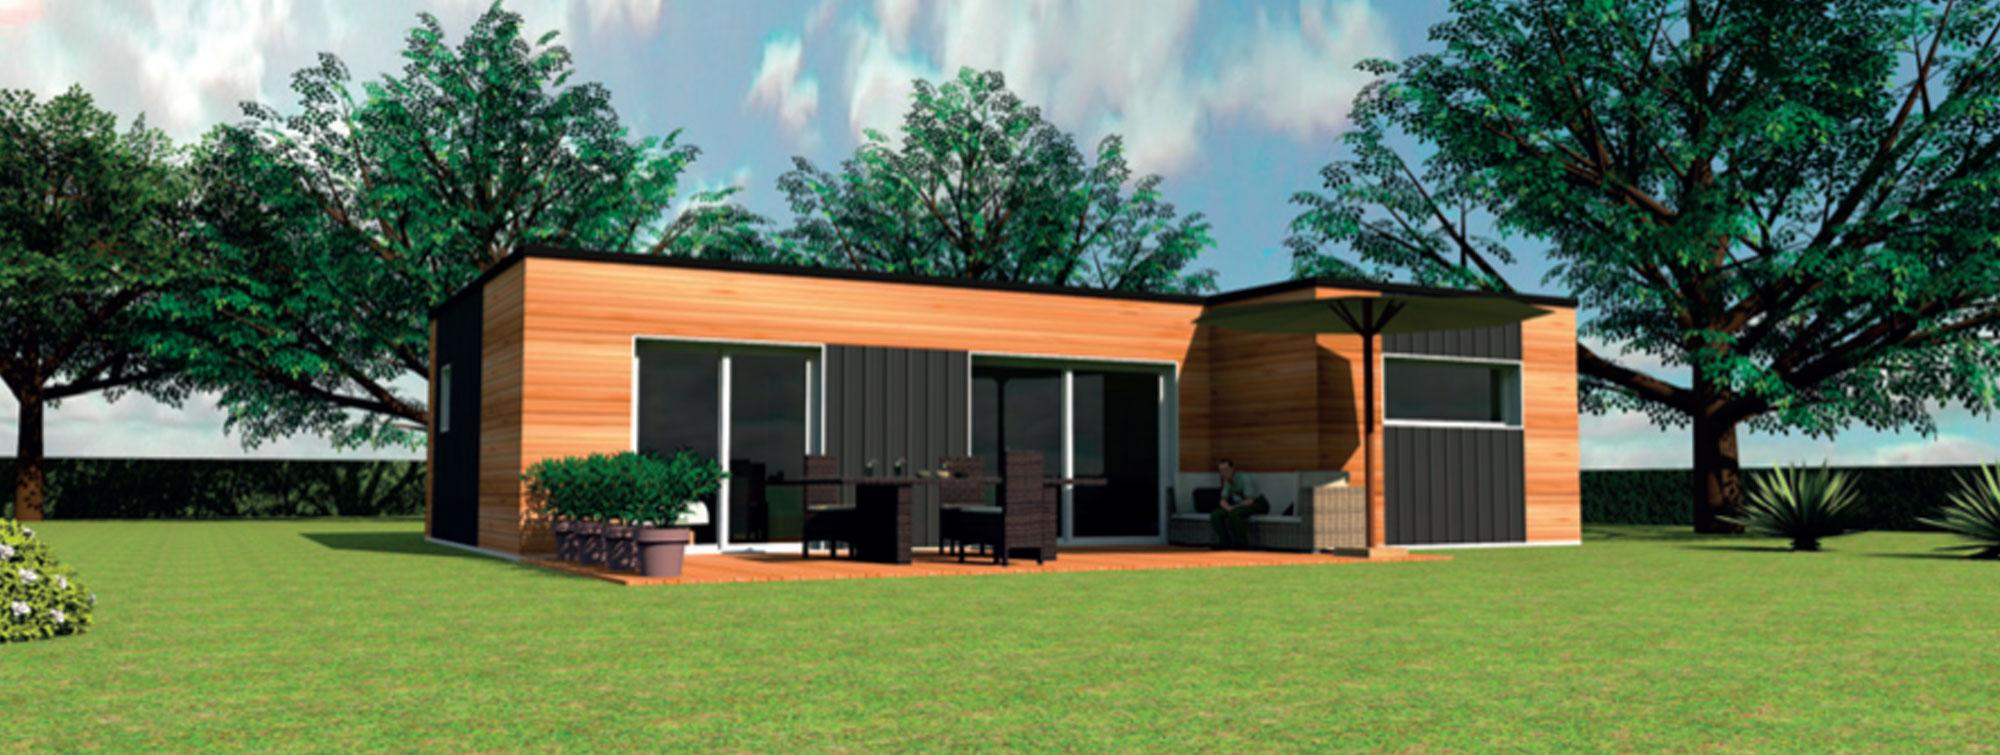
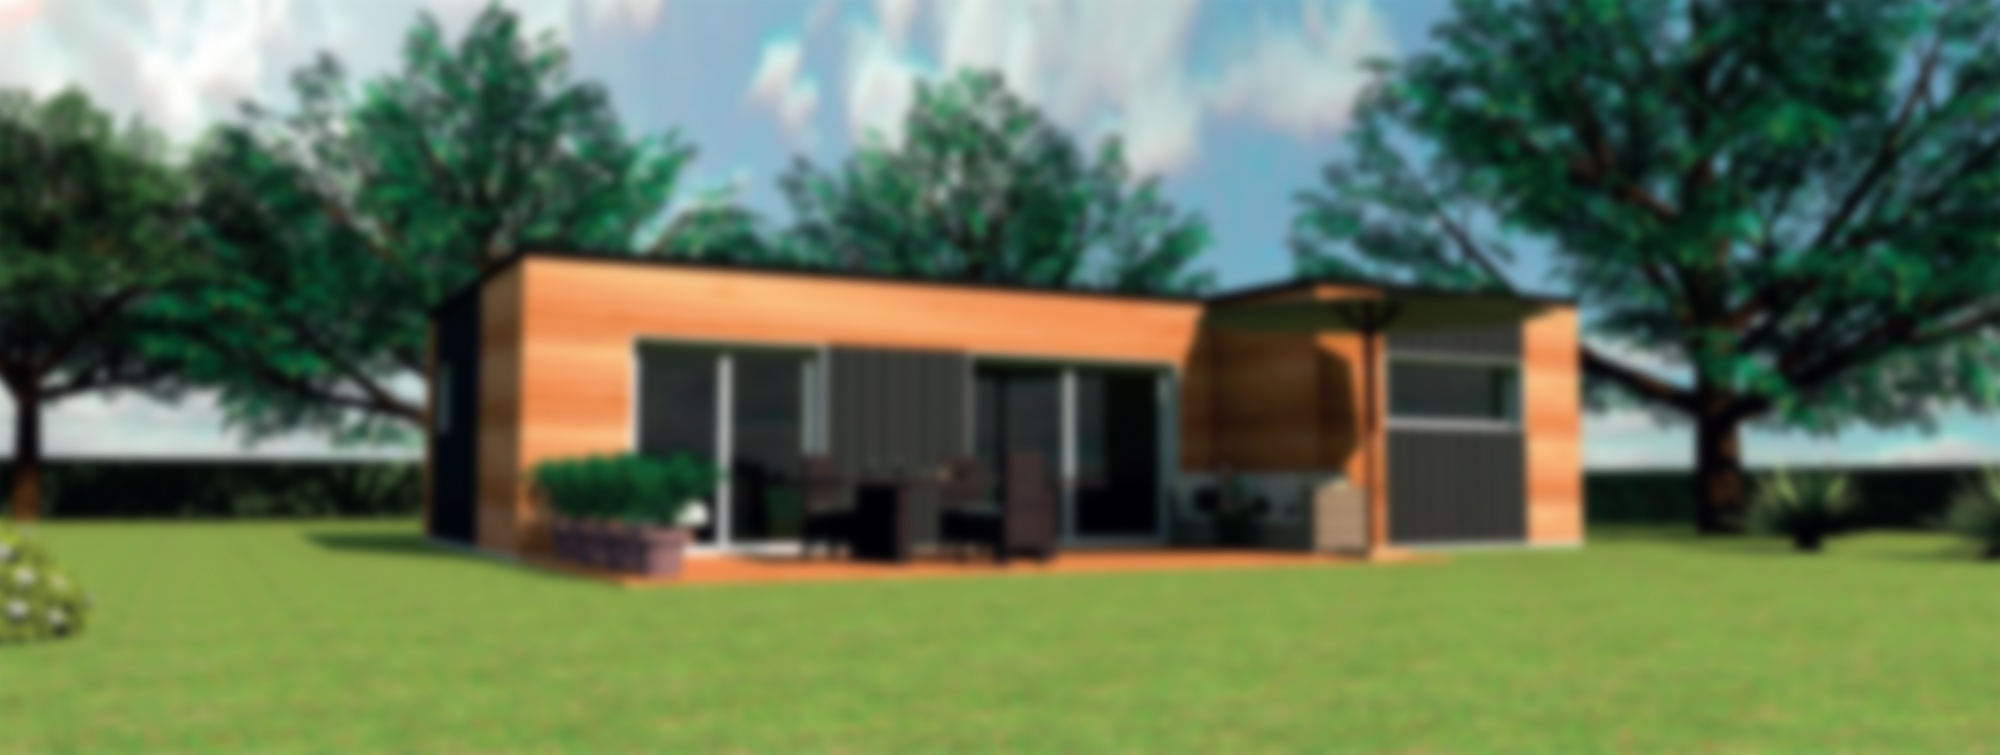
Background pour le login

Changed region(s): [[0.0, 0.0, 1.0, 0.853], [0.992, 0.9748, 1.0, 1.0], [0.465, 0.5483, 0.496, 0.5788]]

diff --git a/src/pages/authentication/authentication.html b/src/pages/authentication/authentication.html
@@ -1,0 +1,46 @@
+<!--
+  Generated template for the AuthenticationPage page.
+
+  See http://ionicframework.com/docs/components/#navigation for more info on
+  Ionic pages and navigation.
+-->
+
+
+<ion-content >
+
+  <div class="background">
+
+    <ion-grid class="iongrid" >
+      <ion-row class="ionrow" justify-content-center align-items-center>
+        <ion-col >
+          <ion-card margin="0 auto">
+            <ion-list>
+              <ion-card-header>
+                <img  src="../../assets/imgs/logo.svg" class="imglogo">
+
+              </ion-card-header>
+
+              <ion-item>
+                <ion-label floating>Matricule</ion-label>
+                <ion-input type="text"></ion-input>
+              </ion-item>
+
+              <ion-item>
+                <ion-label floating>Mot de passe</ion-label>
+                <ion-input type="password"></ion-input>
+              </ion-item>
+
+              <div padding class="button">
+                <button  ion-button color="green-madera">CONNEXION</button>
+              </div>
+            </ion-list>
+
+          </ion-card>
+        </ion-col>
+      </ion-row>
+    </ion-grid>
+
+
+  </div>
+
+</ion-content>

diff --git a/src/app/app.component.ts b/src/app/app.component.ts
@@ -6,6 +6,7 @@ import { SplashScreen } from '@ionic-native/splash-screen';
 import { HomePage } from '../pages/home/home';
 import { ListPage } from '../pages/list/list';
 import { ConceptionDevisPage } from '../pages/ConceptionDevis/ConceptionDevis';
+import { AuthenticationPage } from '../pages/authentication/authentication';
 
 @Component({
   templateUrl: 'app.html'
@@ -13,7 +14,7 @@ import { ConceptionDevisPage } from '../pages/ConceptionDevis/ConceptionDevis';
 export class MyApp {
   @ViewChild(Nav) nav: Nav;
 
-  rootPage: any = ConceptionDevisPage;
+  rootPage: any = AuthenticationPage;
 
   pages: Array<{title: string, component: any}>;
 
@@ -24,7 +25,9 @@ export class MyApp {
     this.pages = [
       { title: 'Conception de devis', component: ConceptionDevisPage },
       { title: 'Home', component: HomePage },
-      { title: 'List', component: ListPage }
+      { title: 'List', component: ListPage },
+      { title: 'Authentication', component: AuthenticationPage }
+
     ];
 
   }

diff --git a/src/app/app.module.ts b/src/app/app.module.ts
@@ -6,6 +6,8 @@ import { MyApp } from './app.component';
 import { HomePage } from '../pages/home/home';
 import { ListPage } from '../pages/list/list';
 import { ConceptionDevisPage } from '../pages/ConceptionDevis/ConceptionDevis';
+import { AuthenticationPage } from '../pages/authentication/authentication';
+
 
 import { StatusBar } from '@ionic-native/status-bar';
 import { SplashScreen } from '@ionic-native/splash-screen';
@@ -15,7 +17,8 @@ import { SplashScreen } from '@ionic-native/splash-screen';
     MyApp,
     HomePage,
     ListPage,
-    ConceptionDevisPage
+    ConceptionDevisPage,
+    AuthenticationPage
   ],
   imports: [
     BrowserModule,
@@ -26,7 +29,8 @@ import { SplashScreen } from '@ionic-native/splash-screen';
     MyApp,
     HomePage,
     ListPage,
-    ConceptionDevisPage
+    ConceptionDevisPage,
+    AuthenticationPage
   ],
   providers: [
     StatusBar,

diff --git a/src/pages/authentication/authentication.ts b/src/pages/authentication/authentication.ts
@@ -1,0 +1,25 @@
+import { Component } from '@angular/core';
+import { IonicPage, NavController, NavParams } from 'ionic-angular';
+
+/**
+ * Generated class for the AuthenticationPage page.
+ *
+ * See https://ionicframework.com/docs/components/#navigation for more info on
+ * Ionic pages and navigation.
+ */
+
+@IonicPage()
+@Component({
+  selector: 'page-authentication',
+  templateUrl: 'authentication.html',
+})
+export class AuthenticationPage {
+
+  constructor(public navCtrl: NavController, public navParams: NavParams) {
+  }
+
+  ionViewDidLoad() {
+    console.log('ionViewDidLoad AuthenticationPage');
+  }
+
+}

diff --git a/src/pages/authentication/authentication.scss b/src/pages/authentication/authentication.scss
@@ -1,0 +1,41 @@
+page-authentication {
+  ion-content {
+
+  }
+  .scroll-content {
+    overflow: hidden;
+  }
+  .background {
+    background-image: url('../../assets/imgs/background.jpg');
+    background-position: center;
+    height: 100%;
+    width: 100%;
+    z-index:0;
+    position: absolute;
+
+  }
+  .card{
+        z-index:1;
+
+  }
+  .imglogo{
+   max-width: 100px;
+  }
+  .button{
+    float: right;
+  }
+  .ion-card{
+    max-width: 150px;
+    max-height: 150px;
+
+
+  }
+  .iongrid{
+    height: 100%;
+  }
+  .ionrow
+  {
+  height: 100%;
+
+}
+}

diff --git a/src/pages/authentication/authentication.module.ts b/src/pages/authentication/authentication.module.ts
@@ -1,0 +1,13 @@
+import { NgModule } from '@angular/core';
+import { IonicPageModule } from 'ionic-angular';
+import { AuthenticationPage } from './authentication';
+
+@NgModule({
+  declarations: [
+    AuthenticationPage,
+  ],
+  imports: [
+    IonicPageModule.forChild(AuthenticationPage),
+  ],
+})
+export class AuthenticationPageModule {}
